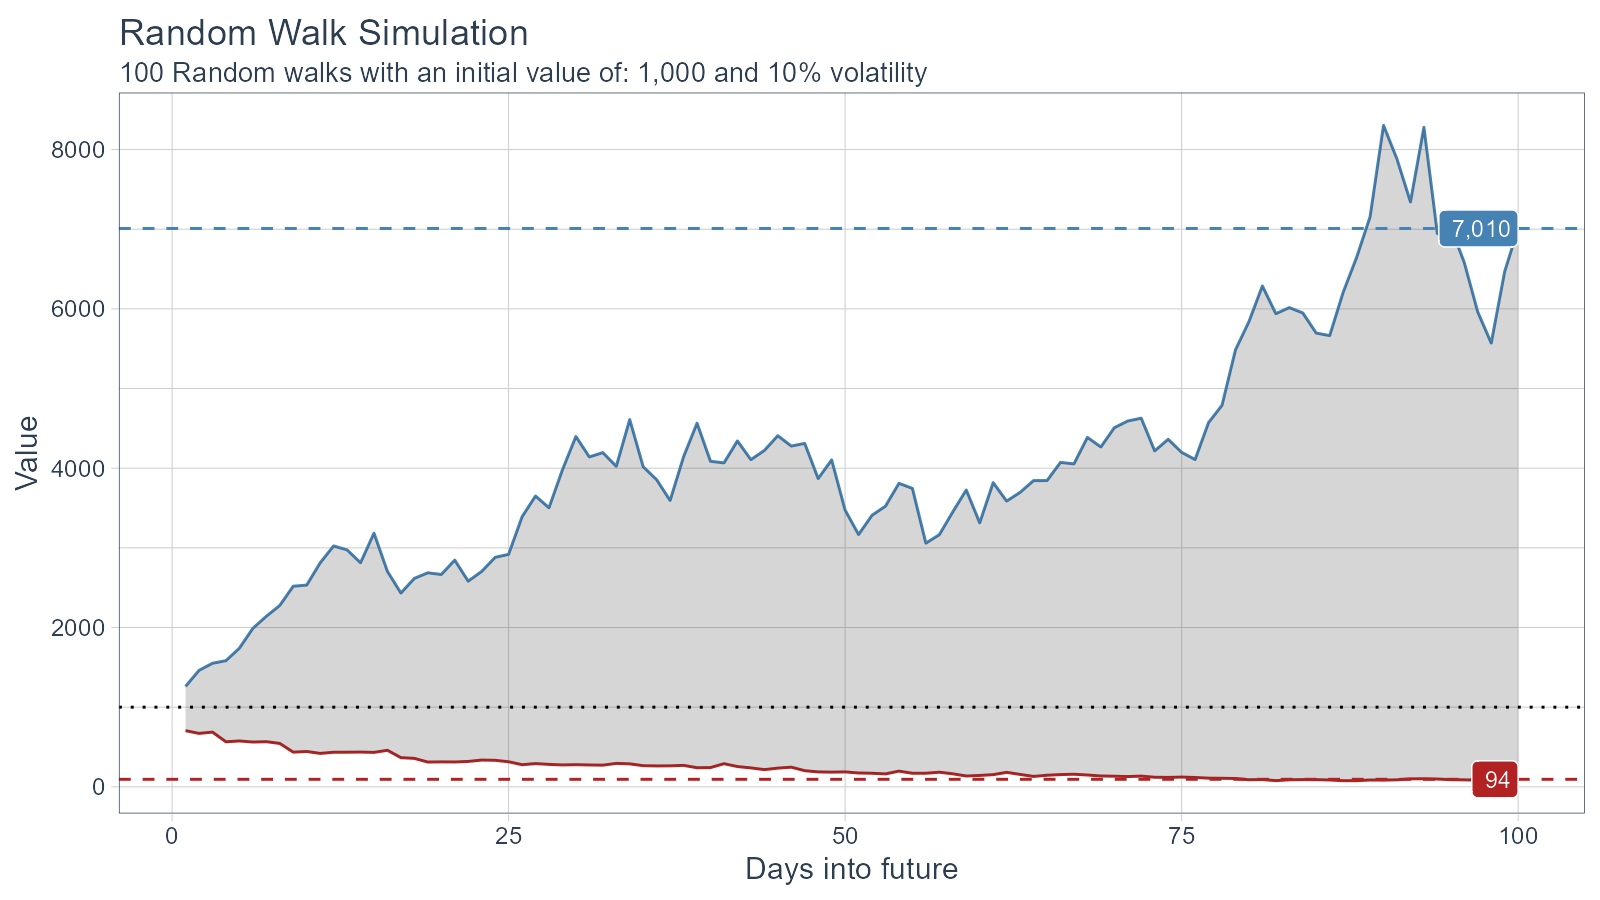
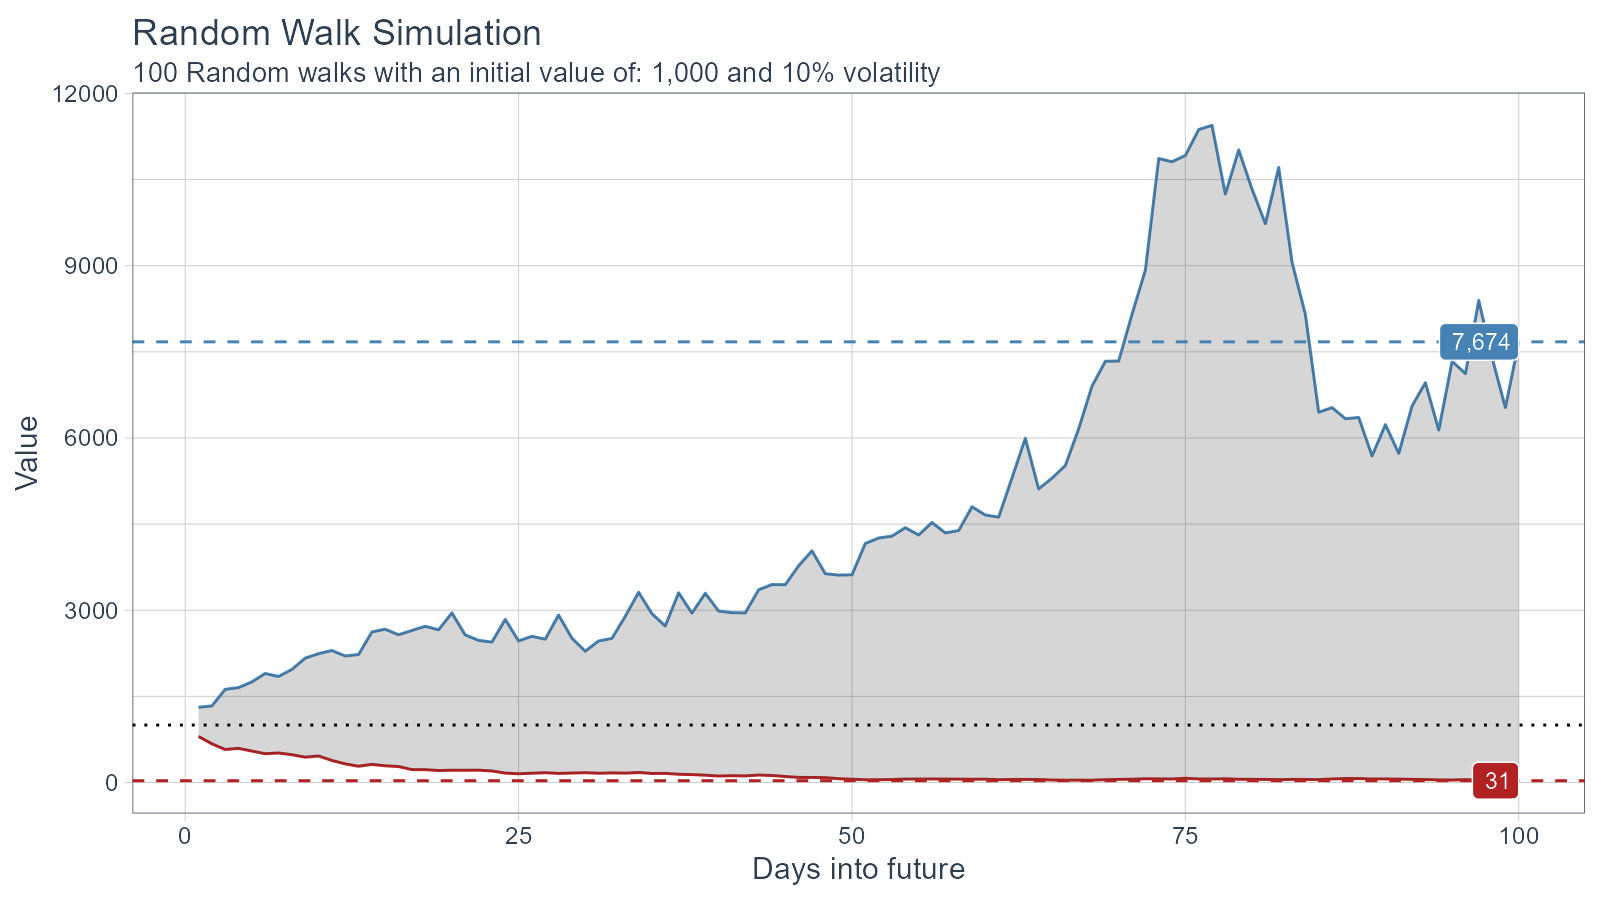
fix man for ts_compare_data

diff --git a/docs/articles/getting-started.html b/docs/articles/getting-started.html
@@ -115,19 +115,19 @@
 <span class="co">#&gt; # A tibble: 6 x 4</span>
 <span class="co">#&gt;     run     x        y cum_y</span>
 <span class="co">#&gt;   &lt;dbl&gt; &lt;dbl&gt;    &lt;dbl&gt; &lt;dbl&gt;</span>
-<span class="co">#&gt; 1     1     1  0.0460  1046.</span>
-<span class="co">#&gt; 2     1     2  0.00833 1055.</span>
-<span class="co">#&gt; 3     1     3 -0.0307  1022.</span>
-<span class="co">#&gt; 4     1     4  0.0739  1098.</span>
-<span class="co">#&gt; 5     1     5 -0.188    891.</span>
-<span class="co">#&gt; 6     1     6  0.231   1097.</span>
+<span class="co">#&gt; 1     1     1 -0.198    802.</span>
+<span class="co">#&gt; 2     1     2  0.0940   877.</span>
+<span class="co">#&gt; 3     1     3  0.0691   937.</span>
+<span class="co">#&gt; 4     1     4  0.133   1062.</span>
+<span class="co">#&gt; 5     1     5  0.00576 1068.</span>
+<span class="co">#&gt; 6     1     6 -0.0976   964.</span>
 <span class="fu"><a href="https://tibble.tidyverse.org/reference/glimpse.html">glimpse</a></span><span class="op">(</span><span class="va">df</span><span class="op">)</span>
 <span class="co">#&gt; Rows: 10,000</span>
 <span class="co">#&gt; Columns: 4</span>
 <span class="co">#&gt; $ run   &lt;dbl&gt; 1, 1, 1, 1, 1, 1, 1, 1, 1, 1, 1, 1, 1, 1, 1, 1, 1, 1, 1, 1, 1...</span>
 <span class="co">#&gt; $ x     &lt;dbl&gt; 1, 2, 3, 4, 5, 6, 7, 8, 9, 10, 11, 12, 13, 14, 15, 16, 17, 18...</span>
-<span class="co">#&gt; $ y     &lt;dbl&gt; 0.046033314, 0.008332773, -0.030691584, 0.073860437, -0.18840...</span>
-<span class="co">#&gt; $ cum_y &lt;dbl&gt; 1046.0333, 1054.7497, 1022.3777, 1097.8910, 891.0389, 1096.50...</span></code></pre></div>
+<span class="co">#&gt; $ y     &lt;dbl&gt; -0.198470038, 0.093999749, 0.069110045, 0.133127432, 0.005763...</span>
+<span class="co">#&gt; $ cum_y &lt;dbl&gt; 801.5300, 876.8736, 937.4743, 1062.2779, 1068.3998, 964.1731,...</span></code></pre></div>
 <p>Now that the data has been generated, lets take a look at it.</p>
 <div class="sourceCode" id="cb3"><pre class="downlit sourceCode r">
 <code class="sourceCode R"><span class="va">df</span> <span class="op">%&gt;%</span>

diff --git a/docs/reference/ts_compare_data.html b/docs/reference/ts_compare_data.html
@@ -191,6 +191,9 @@ are collapsed using <code><a href='http://lubridate.tidyverse.org/reference/roun
     </tr>
     </table>
 
+    <h2 class="hasAnchor" id="value"><a class="anchor" href="#value"></a>Value</h2>
+
+    <p>A tibble.</p>
     <h2 class="hasAnchor" id="details"><a class="anchor" href="#details"></a>Details</h2>
 
     
